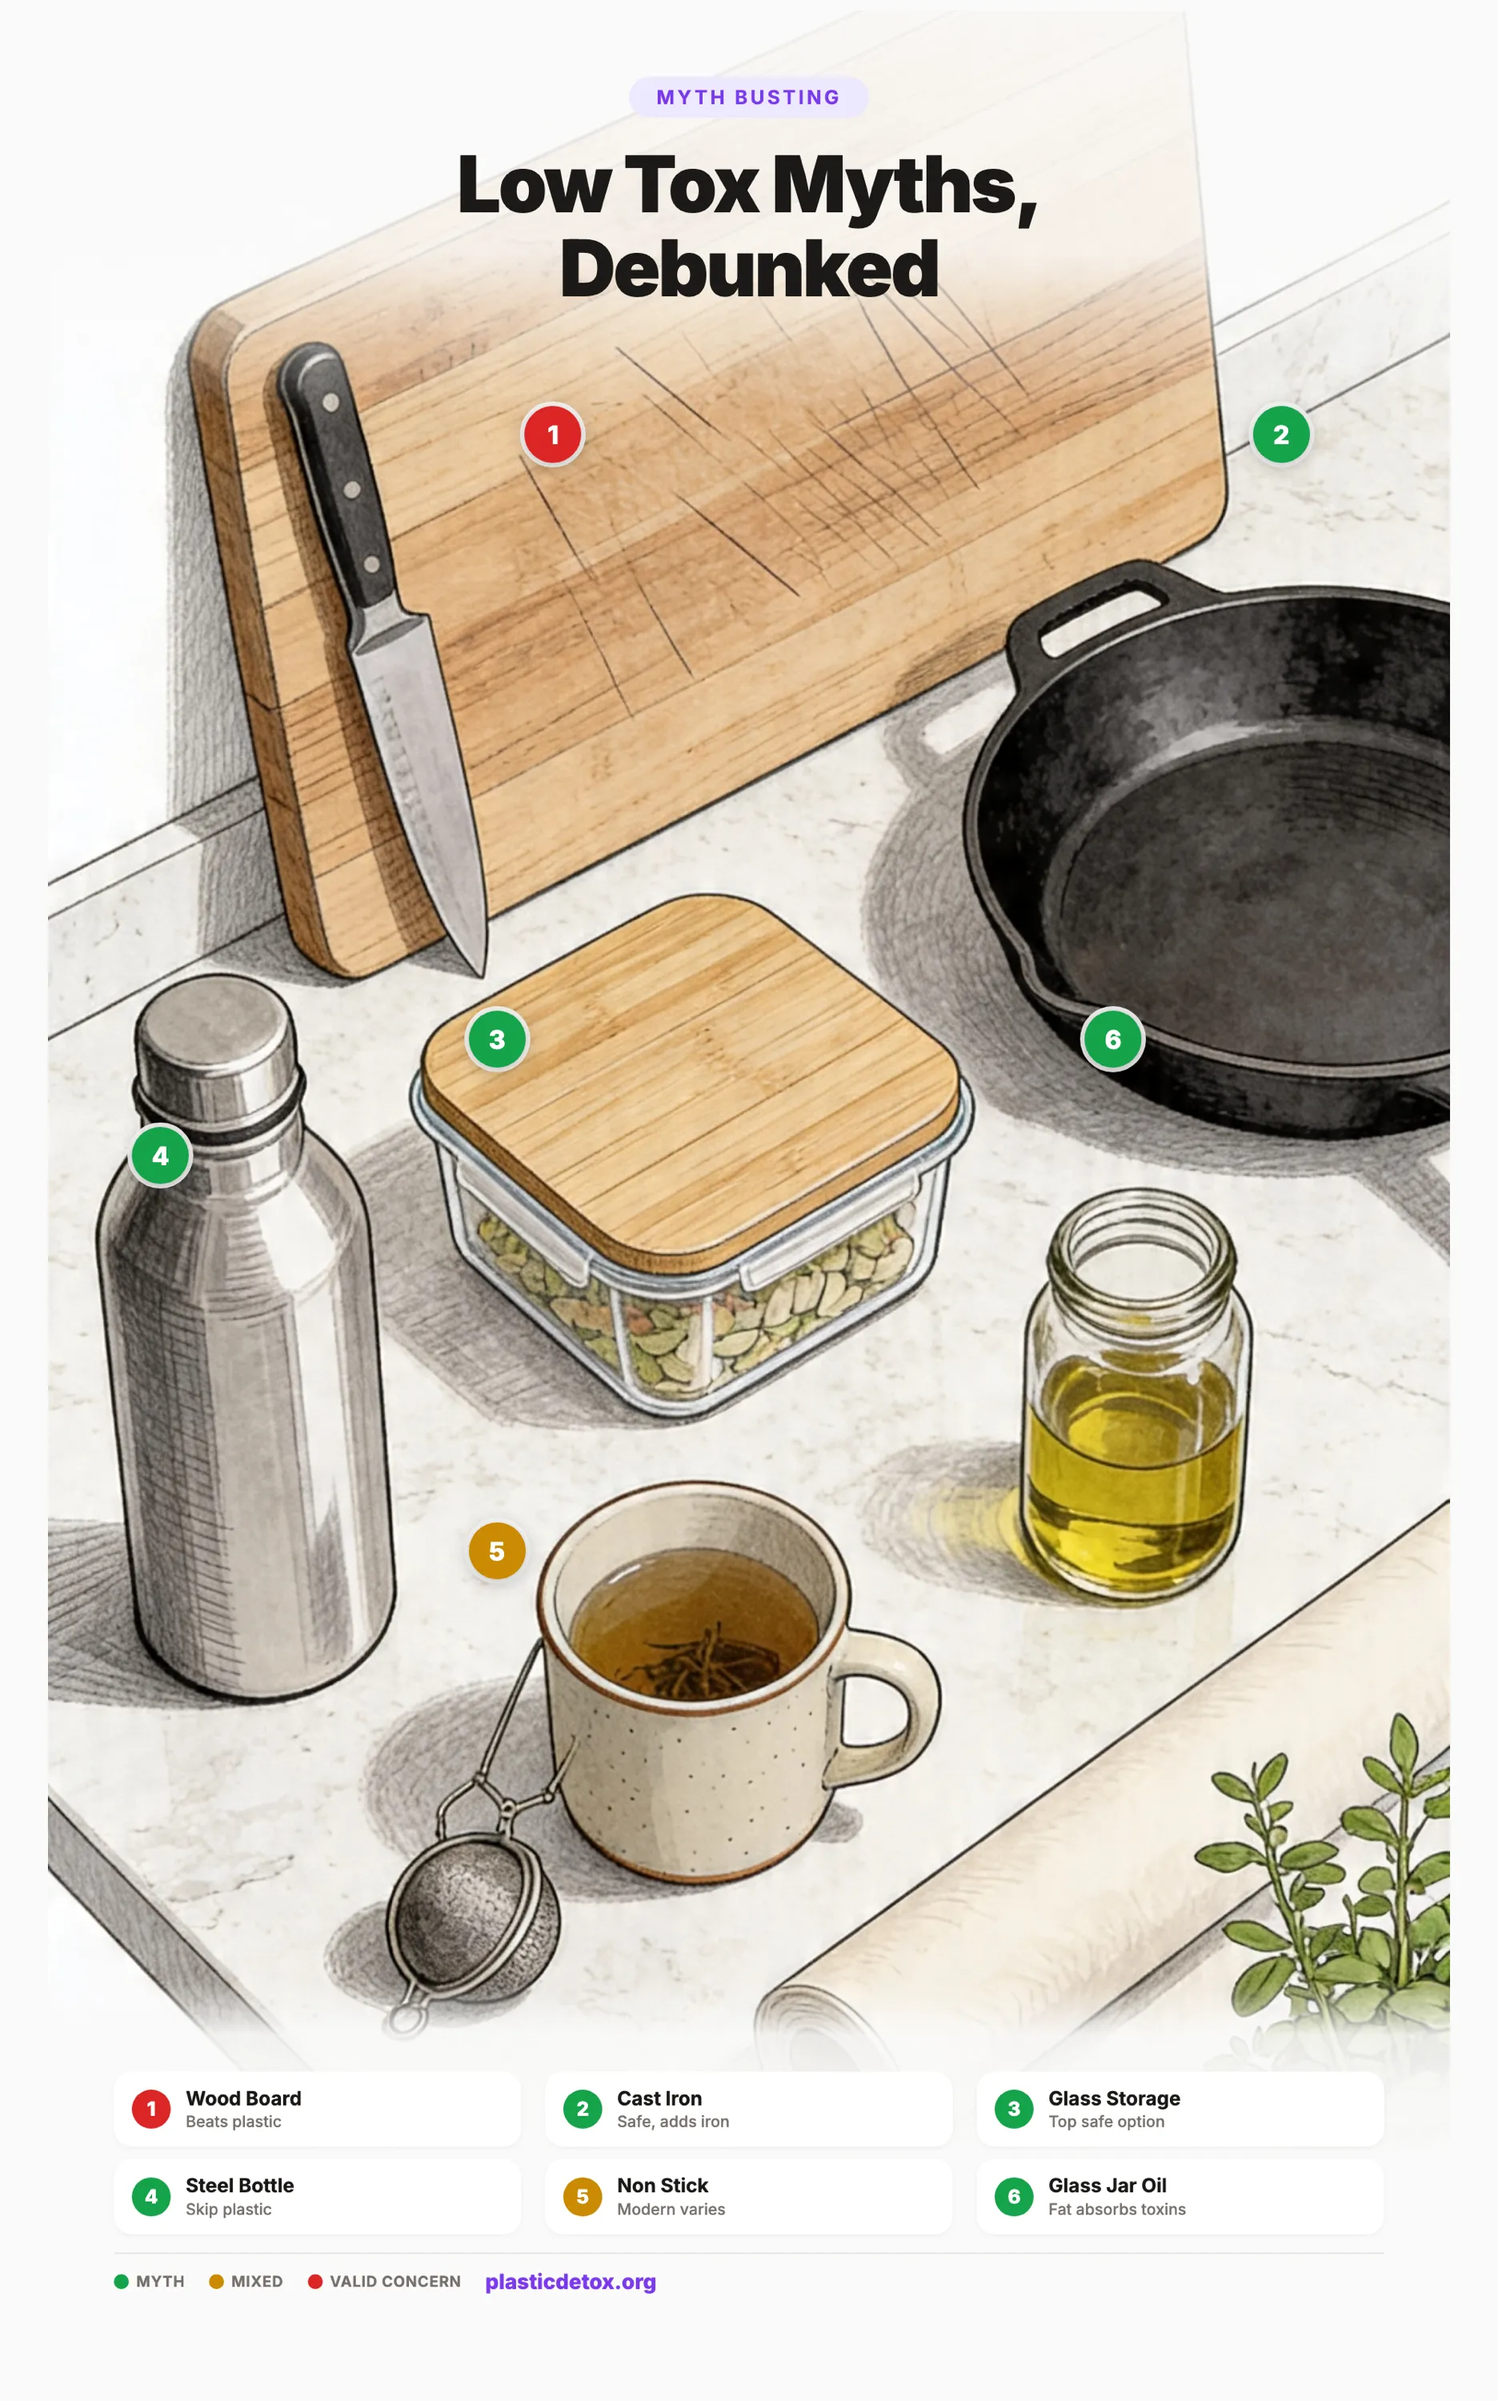
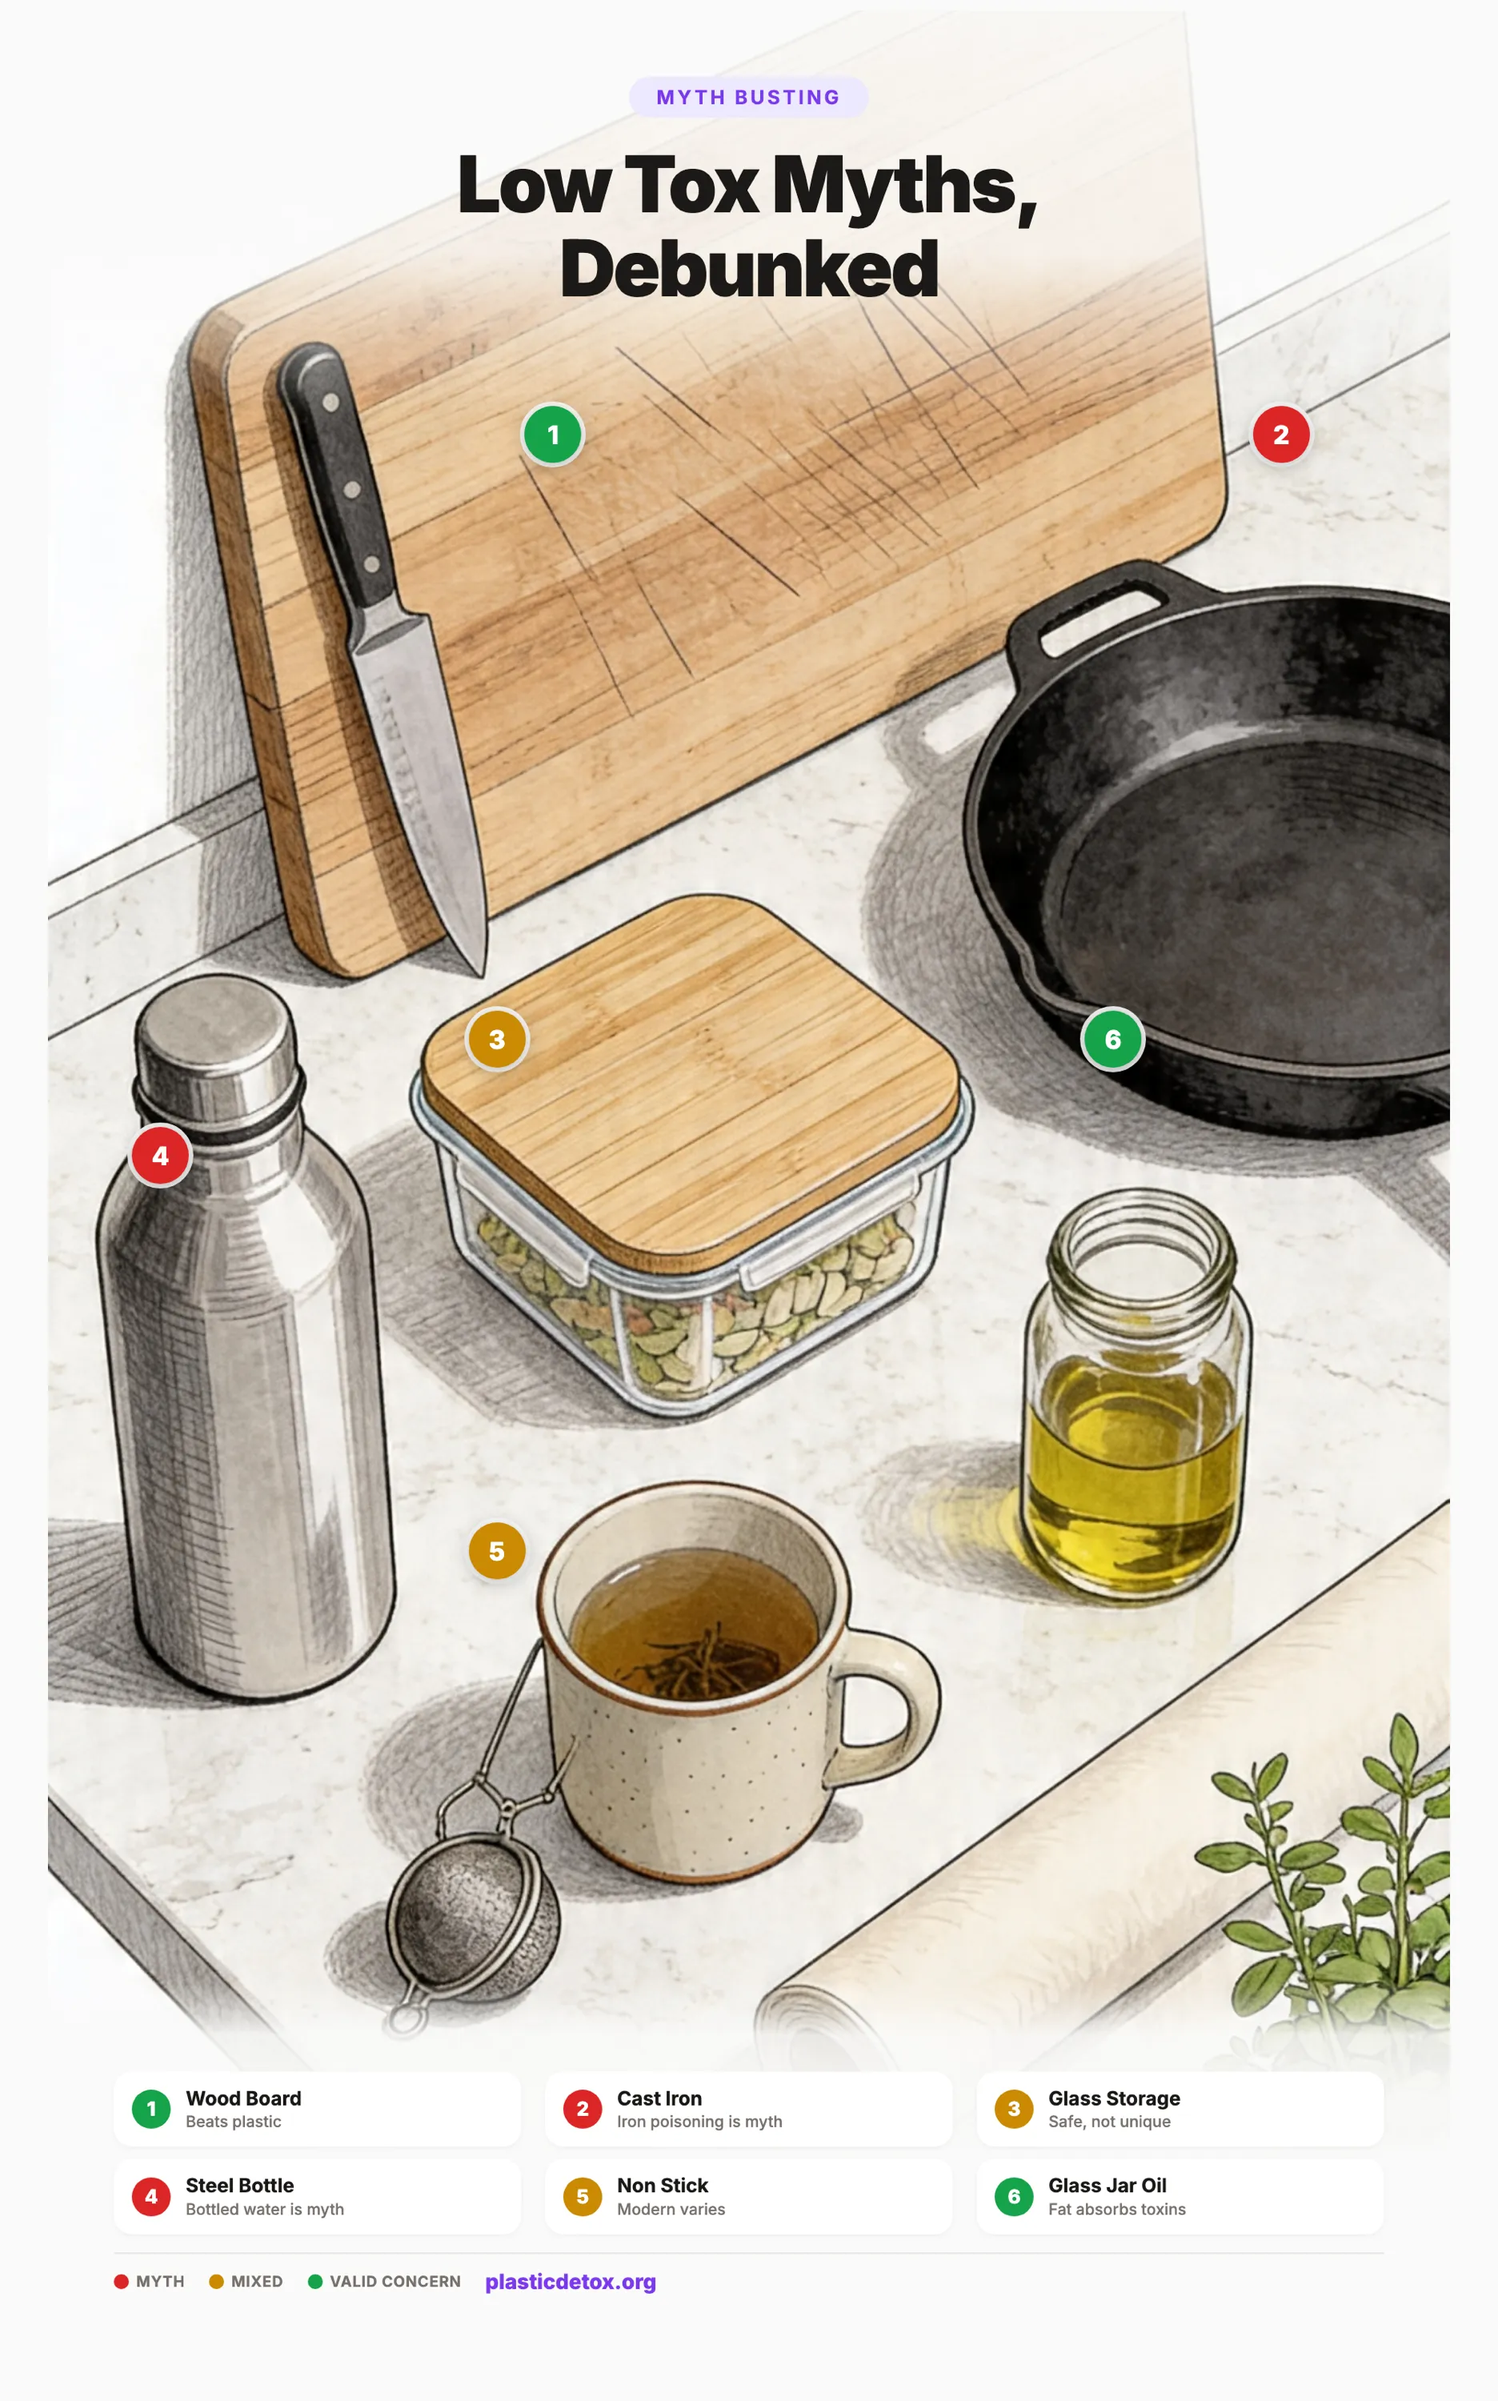
Swap color coding: red for Myth, green for Valid
More intuitive: green = valid concern (act on it), red = myth
(stop worrying). Updated across all locations:
- CSS verdict classes (verdict-myth now red, verdict-true now green)
- Intro callout color labels
- Hero quadrant chart SVG (dots and quadrant header labels)
- Personal care infographic (strong evidence now green, weak now red)
- Pinterest pin template (badge colors, legend colors, color key)
- Regenerated pin WebP

Kitchen materials and priorities infographics unchanged (they use
safe/avoid semantics, not myth/valid).

diff --git a/articles/low-tox-myths-debunked.html b/articles/low-tox-myths-debunked.html
@@ -167,12 +167,12 @@
       border-radius: 100px;
       margin-bottom: 0.5rem;
     }
-    .verdict-myth { border-left-color: #16a34a; }
-    .verdict-myth .verdict-badge { background: #f0fdf4; color: #16a34a; }
+    .verdict-myth { border-left-color: #dc2626; }
+    .verdict-myth .verdict-badge { background: #fef2f2; color: #dc2626; }
     .verdict-mixed { border-left-color: #ca8a04; }
     .verdict-mixed .verdict-badge { background: #fefce8; color: #a16207; }
-    .verdict-true { border-left-color: #dc2626; }
-    .verdict-true .verdict-badge { background: #fef2f2; color: #dc2626; }
+    .verdict-true { border-left-color: #16a34a; }
+    .verdict-true .verdict-badge { background: #f0fdf4; color: #16a34a; }
     .myth-card .truth-label,
     .myth-card .action-label {
       font-weight: 700;
@@ -277,7 +277,7 @@
 
     <div class="callout">
       <div class="callout-title">How to Read This Article</div>
-      Each claim gets a verdict: <strong style="color:#16a34a;">MYTH</strong> (overblown or wrong), <strong style="color:#a16207;">MIXED</strong> (partly true with important nuance), or <strong style="color:#dc2626;">VALID</strong> (the concern is real and supported by evidence). Then we tell you what to actually do.
+      Each claim gets a verdict: <strong style="color:#dc2626;">MYTH</strong> (overblown or wrong), <strong style="color:#a16207;">MIXED</strong> (partly true with important nuance), or <strong style="color:#16a34a;">VALID</strong> (the concern is real and supported by evidence). Then we tell you what to actually do.
     </div>
 
     <nav class="toc">
@@ -317,11 +317,11 @@
 
         <!-- Quadrant headers tucked in corners -->
         <text x="80" y="70" font-family="Inter,sans-serif" font-size="9" fill="#16a34a" font-weight="800">QUIET BUT REAL</text>
-        <text x="487" y="70" font-family="Inter,sans-serif" font-size="9" fill="#dc2626" font-weight="800" text-anchor="end">LOUD AND REAL</text>
+        <text x="487" y="70" font-family="Inter,sans-serif" font-size="9" fill="#16a34a" font-weight="800" text-anchor="end">LOUD AND REAL</text>
         <text x="80" y="215" font-family="Inter,sans-serif" font-size="9" fill="#78716c" font-weight="800">QUIET, OVERLOOKED</text>
-        <text x="487" y="215" font-family="Inter,sans-serif" font-size="9" fill="#a16207" font-weight="800" text-anchor="end">LOUD, OVERBLOWN</text>
+        <text x="487" y="215" font-family="Inter,sans-serif" font-size="9" fill="#dc2626" font-weight="800" text-anchor="end">LOUD, OVERBLOWN</text>
 
-        <!-- TOP-LEFT (green, evidence based but under discussed). Dots clustered on the right edge so labels read leftward. -->
+        <!-- TOP-LEFT (green, valid concerns, under discussed). -->
         <circle cx="255" cy="105" r="5" fill="#16a34a"/>
         <text x="246" y="109" font-family="Inter,sans-serif" font-size="9" fill="#1c1917" text-anchor="end">Indoor air dust</text>
 
@@ -331,14 +331,14 @@
         <circle cx="260" cy="165" r="5" fill="#16a34a"/>
         <text x="251" y="169" font-family="Inter,sans-serif" font-size="9" fill="#1c1917" text-anchor="end">Receipt thermal paper</text>
 
-        <!-- TOP-RIGHT (red, evidence based and loud). Dots on the left edge so labels read rightward. -->
-        <circle cx="320" cy="105" r="5" fill="#dc2626"/>
+        <!-- TOP-RIGHT (green, valid concerns, well known). -->
+        <circle cx="320" cy="105" r="5" fill="#16a34a"/>
         <text x="329" y="109" font-family="Inter,sans-serif" font-size="9" fill="#1c1917">Plastic baby bottles</text>
 
-        <circle cx="305" cy="135" r="5" fill="#dc2626"/>
+        <circle cx="305" cy="135" r="5" fill="#16a34a"/>
         <text x="314" y="139" font-family="Inter,sans-serif" font-size="9" fill="#1c1917">PFAS in tap water</text>
 
-        <circle cx="335" cy="165" r="5" fill="#dc2626"/>
+        <circle cx="335" cy="165" r="5" fill="#16a34a"/>
         <text x="344" y="169" font-family="Inter,sans-serif" font-size="9" fill="#1c1917">Plastic tea bags</text>
 
         <!-- BOTTOM-LEFT (gray, low evidence and low noise). -->
@@ -348,17 +348,17 @@
         <circle cx="260" cy="290" r="5" fill="#a8a29e"/>
         <text x="251" y="294" font-family="Inter,sans-serif" font-size="9" fill="#1c1917" text-anchor="end">Cast iron poisoning</text>
 
-        <!-- BOTTOM-RIGHT (orange, loud but overblown). -->
-        <circle cx="320" cy="245" r="5" fill="#ca8a04"/>
+        <!-- BOTTOM-RIGHT (red, myths, loud but overblown). -->
+        <circle cx="320" cy="245" r="5" fill="#dc2626"/>
         <text x="329" y="249" font-family="Inter,sans-serif" font-size="9" fill="#1c1917">Microwaves cause cancer</text>
 
-        <circle cx="305" cy="270" r="5" fill="#ca8a04"/>
+        <circle cx="305" cy="270" r="5" fill="#dc2626"/>
         <text x="314" y="274" font-family="Inter,sans-serif" font-size="9" fill="#1c1917">Aluminum and Alzheimer's</text>
 
-        <circle cx="335" cy="295" r="5" fill="#ca8a04"/>
+        <circle cx="335" cy="295" r="5" fill="#dc2626"/>
         <text x="344" y="299" font-family="Inter,sans-serif" font-size="9" fill="#1c1917">All Prop 65 means cancer</text>
 
-        <circle cx="320" cy="320" r="5" fill="#ca8a04"/>
+        <circle cx="320" cy="320" r="5" fill="#dc2626"/>
         <text x="329" y="324" font-family="Inter,sans-serif" font-size="9" fill="#1c1917">Sunscreen worse than sun</text>
       </svg>
     </div>
@@ -622,10 +622,10 @@
 
         <text x="260" y="28" font-family="Inter,sans-serif" font-size="11" fill="#1c1917" font-weight="700" text-anchor="middle">Strong Evidence of Harm vs. Weak or Disputed</text>
 
-        <!-- Strong evidence (left) -->
-        <rect x="20" y="50" width="230" height="245" fill="#fef2f2" rx="10" stroke="#fecaca"/>
-        <text x="135" y="76" font-family="Inter,sans-serif" font-size="11" fill="#dc2626" font-weight="800" text-anchor="middle">STRONG EVIDENCE</text>
-        <line x1="40" y1="86" x2="230" y2="86" stroke="#fecaca"/>
+        <!-- Strong evidence (left, valid = green) -->
+        <rect x="20" y="50" width="230" height="245" fill="#f0fdf4" rx="10" stroke="#bbf7d0"/>
+        <text x="135" y="76" font-family="Inter,sans-serif" font-size="11" fill="#16a34a" font-weight="800" text-anchor="middle">STRONG EVIDENCE</text>
+        <line x1="40" y1="86" x2="230" y2="86" stroke="#bbf7d0"/>
         <text x="135" y="108" font-family="Inter,sans-serif" font-size="10" fill="#1c1917" text-anchor="middle">Phthalates in fragrance</text>
         <text x="135" y="128" font-family="Inter,sans-serif" font-size="10" fill="#1c1917" text-anchor="middle">Oxybenzone sunscreen</text>
         <text x="135" y="148" font-family="Inter,sans-serif" font-size="10" fill="#1c1917" text-anchor="middle">Formaldehyde releasers</text>
@@ -633,12 +633,12 @@
         <text x="135" y="188" font-family="Inter,sans-serif" font-size="10" fill="#1c1917" text-anchor="middle">Talc with asbestos</text>
         <text x="135" y="208" font-family="Inter,sans-serif" font-size="10" fill="#1c1917" text-anchor="middle">Triclosan in soap</text>
         <text x="135" y="228" font-family="Inter,sans-serif" font-size="10" fill="#1c1917" text-anchor="middle">Paraffin candle smoke</text>
-        <text x="135" y="270" font-family="Inter,sans-serif" font-size="9" fill="#dc2626" text-anchor="middle">Worth replacing</text>
+        <text x="135" y="270" font-family="Inter,sans-serif" font-size="9" fill="#16a34a" text-anchor="middle">Worth replacing</text>
 
-        <!-- Weak evidence (right) -->
-        <rect x="270" y="50" width="230" height="245" fill="#f0fdf4" rx="10" stroke="#bbf7d0"/>
-        <text x="385" y="76" font-family="Inter,sans-serif" font-size="11" fill="#16a34a" font-weight="800" text-anchor="middle">WEAK OR DISPUTED</text>
-        <line x1="290" y1="86" x2="480" y2="86" stroke="#bbf7d0"/>
+        <!-- Weak evidence (right, myth territory = red) -->
+        <rect x="270" y="50" width="230" height="245" fill="#fef2f2" rx="10" stroke="#fecaca"/>
+        <text x="385" y="76" font-family="Inter,sans-serif" font-size="11" fill="#dc2626" font-weight="800" text-anchor="middle">WEAK OR DISPUTED</text>
+        <line x1="290" y1="86" x2="480" y2="86" stroke="#fecaca"/>
         <text x="385" y="108" font-family="Inter,sans-serif" font-size="10" fill="#1c1917" text-anchor="middle">Parabens cause cancer</text>
         <text x="385" y="128" font-family="Inter,sans-serif" font-size="10" fill="#1c1917" text-anchor="middle">Aluminum in deodorant</text>
         <text x="385" y="148" font-family="Inter,sans-serif" font-size="10" fill="#1c1917" text-anchor="middle">Mineral sunscreen risk</text>
@@ -646,7 +646,7 @@
         <text x="385" y="188" font-family="Inter,sans-serif" font-size="10" fill="#1c1917" text-anchor="middle">Silicones in hair products</text>
         <text x="385" y="208" font-family="Inter,sans-serif" font-size="10" fill="#1c1917" text-anchor="middle">Fluoride toothpaste</text>
         <text x="385" y="228" font-family="Inter,sans-serif" font-size="10" fill="#1c1917" text-anchor="middle">SLS will give you cancer</text>
-        <text x="385" y="270" font-family="Inter,sans-serif" font-size="9" fill="#16a34a" text-anchor="middle">Don't lose sleep</text>
+        <text x="385" y="270" font-family="Inter,sans-serif" font-size="9" fill="#dc2626" text-anchor="middle">Don't lose sleep</text>
       </svg>
     </div>
 

diff --git a/images/myths-swap-pinterest.html b/images/myths-swap-pinterest.html
@@ -202,30 +202,30 @@
       <h1>Low Tox Myths,<br>Debunked</h1>
     </div>
 
-    <div class="badge badge-red badge-1">1</div>
-    <div class="badge badge-green badge-2">2</div>
-    <div class="badge badge-green badge-3">3</div>
-    <div class="badge badge-green badge-4">4</div>
+    <div class="badge badge-green badge-1">1</div>
+    <div class="badge badge-red badge-2">2</div>
+    <div class="badge badge-yellow badge-3">3</div>
+    <div class="badge badge-red badge-4">4</div>
     <div class="badge badge-yellow badge-5">5</div>
     <div class="badge badge-green badge-6">6</div>
 
     <div class="bottom-card">
       <div class="swaps">
         <div class="swap">
-          <div class="swap-num" style="background:#dc2626;">1</div>
+          <div class="swap-num" style="background:#16a34a;">1</div>
           <div class="swap-text">Wood Board<span>Beats plastic</span></div>
         </div>
         <div class="swap">
-          <div class="swap-num" style="background:#16a34a;">2</div>
-          <div class="swap-text">Cast Iron<span>Safe, adds iron</span></div>
+          <div class="swap-num" style="background:#dc2626;">2</div>
+          <div class="swap-text">Cast Iron<span>Iron poisoning is myth</span></div>
         </div>
         <div class="swap">
-          <div class="swap-num" style="background:#16a34a;">3</div>
-          <div class="swap-text">Glass Storage<span>Top safe option</span></div>
+          <div class="swap-num" style="background:#ca8a04;">3</div>
+          <div class="swap-text">Glass Storage<span>Safe, not unique</span></div>
         </div>
         <div class="swap">
-          <div class="swap-num" style="background:#16a34a;">4</div>
-          <div class="swap-text">Steel Bottle<span>Skip plastic</span></div>
+          <div class="swap-num" style="background:#dc2626;">4</div>
+          <div class="swap-text">Steel Bottle<span>Bottled water is myth</span></div>
         </div>
         <div class="swap">
           <div class="swap-num" style="background:#ca8a04;">5</div>
@@ -238,9 +238,9 @@
       </div>
       <div class="footer">
         <div class="color-key">
-          <div class="key-item"><div class="key-dot" style="background:#16a34a;"></div><span class="key-label">Myth</span></div>
+          <div class="key-item"><div class="key-dot" style="background:#dc2626;"></div><span class="key-label">Myth</span></div>
           <div class="key-item"><div class="key-dot" style="background:#ca8a04;"></div><span class="key-label">Mixed</span></div>
-          <div class="key-item"><div class="key-dot" style="background:#dc2626;"></div><span class="key-label">Valid concern</span></div>
+          <div class="key-item"><div class="key-dot" style="background:#16a34a;"></div><span class="key-label">Valid concern</span></div>
           <span class="footer-url" style="margin-left:auto;">plasticdetox.org</span>
         </div>
       </div>
